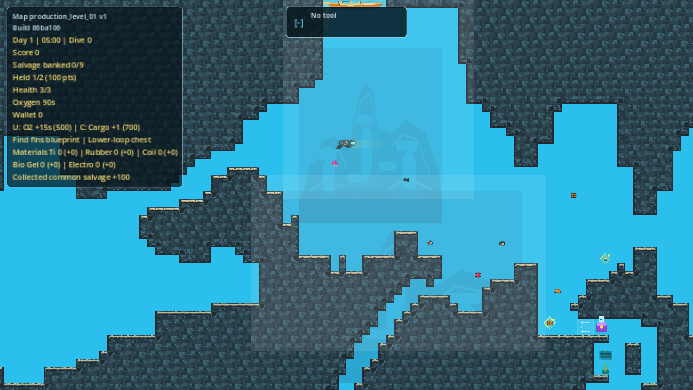
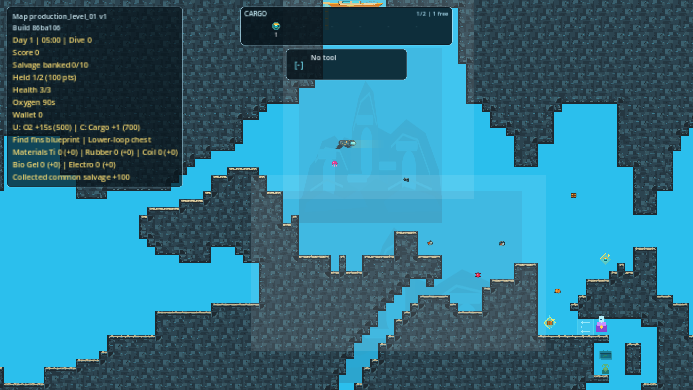
Accept Expansion 14 visual baseline (#1038)

Changed region(s): [[0.3333, 0.0, 0.6667, 0.2154], [0.1212, 0.1538, 0.1515, 0.1846]]

diff --git a/docs/current/OCEANGAME_EXPANSION_14_VISUAL_BASELINE_DECISION.md b/docs/current/OCEANGAME_EXPANSION_14_VISUAL_BASELINE_DECISION.md
@@ -1,0 +1,65 @@
+# OceanGame Expansion 14 Visual Baseline Decision
+
+Date: 2026-07-18
+
+Issue: #1038 `Review and accept intentional Expansion 14 visual baseline changes`
+
+## Decision
+
+**Accepted** the intentional Expansion 14 changes in the existing
+`production_level_01` baseline. The accepted source capture is exact commit
+`00980855b4dfb3defd79b488592ee610f189f667`, after the contract, source,
+runtime, HUD, smoke, and focused-capture issues merged.
+
+All 14 configured full-level images were affected by the bounded held-cargo
+strip, so the complete configured set is the minimum coherent acceptance.
+No production-slice baseline changed. The 16 focused Expansion 14 captures,
+their generated `.import` sidecars, and temporary contact sheets remain local
+review evidence and were not accepted.
+
+## Intentional Differences
+
+Every configured desktop/mobile view gains the compact held-cargo strip above
+the separate active-tool panel. Before acceptance, the 12 boat, opening,
+lower-left, lower-right, and return frames differed only in the top UI region:
+no changed pixel appeared below row 180 on desktop or row 135 on mobile.
+
+The overview and upper-left pairs also show the source-authored advanced
+current, Northwest Wreck Relay pocket, relay core, and associated payoff cues.
+Outside the top UI, the overview changed by 15,784 desktop pixels and 51 mobile
+pixels; the upper-left view changed by 3,905 desktop pixels and 1,136 mobile
+pixels. The review-only build text also advanced with the source commit.
+
+Focused desktop and landscape-mobile evidence shows the blocked current,
+stabilizer project promise, enabled crossing, relay arrival, mixed full cargo,
+50% relay survey, pending boat return, and archive result. The scanner cone,
+selected tool, cargo contents, result/status text, and mobile touch controls
+remain readable without overlap.
+
+## Stable Areas
+
+Terrain topology and collision-facing edges, player, boat, existing landmarks,
+camera framing, lower-left and lower-right world presentation, and established
+route silhouettes remained stable. No runtime, map source, topology, camera,
+or asset changed during this review.
+
+The accepted slice-01 through slice-04 baselines and their comparison sheets
+remain unchanged. Post-accept comparison panels are black for every configured
+full-level and slice view. No bounded visual follow-up is required from this
+review.
+
+## Verification
+
+```powershell
+& 'C:\Program Files\Godot\Godot_v4.7-stable_win64.exe\Godot_v4.7-stable_win64_console.exe' --path . --capture-expansion-09-full-level
+python tools/check_camera_captures.py maps/production_level_01.greybox.json visual_captures/expansion_09_full_level --camera-id-prefix production_level_ --suffix 1280x720 --suffix mobile_844x390 --fail-on-stale
+python tools/manage_production_slice_baseline.py compare-all
+python tools/manage_production_slice_baseline.py --slice production_level_01 accept
+python tools/manage_production_slice_baseline.py compare-all
+python tools/manage_production_slice_baseline.py check-clean --all-slices
+python tools/check_file_lengths.py
+git diff --check
+```
+
+Two consecutive full-level capture runs produced identical SHA-256 hashes for
+all 14 PNGs. Exact-SHA public Web verification remains scoped to #1039.
